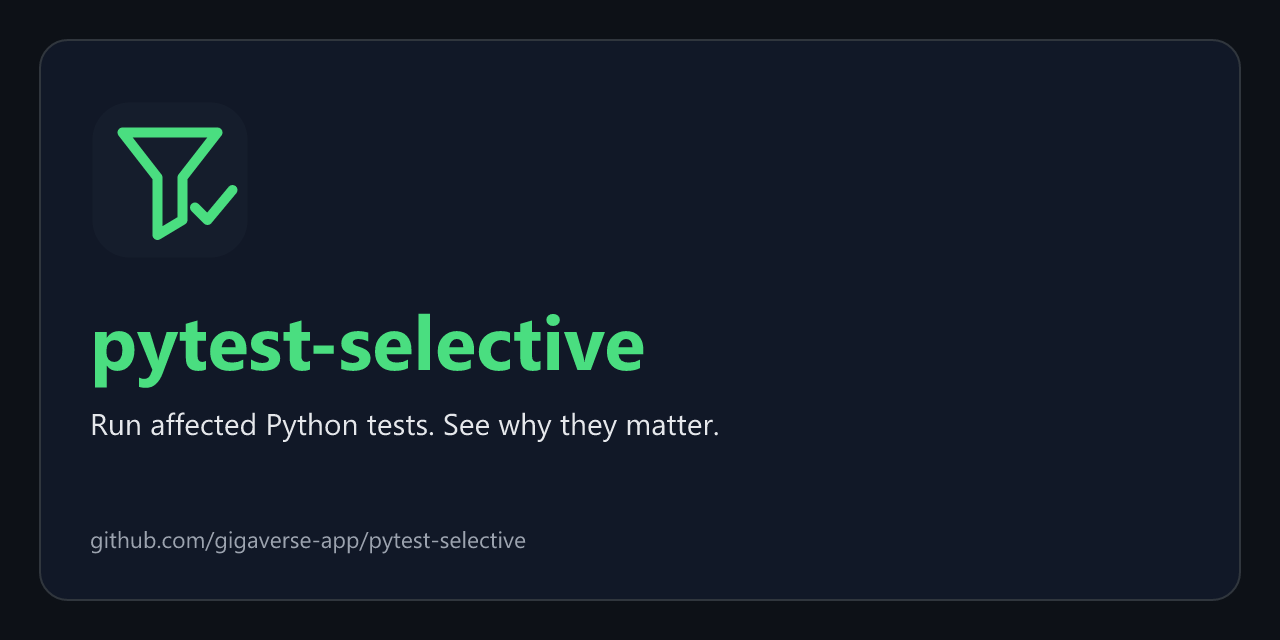
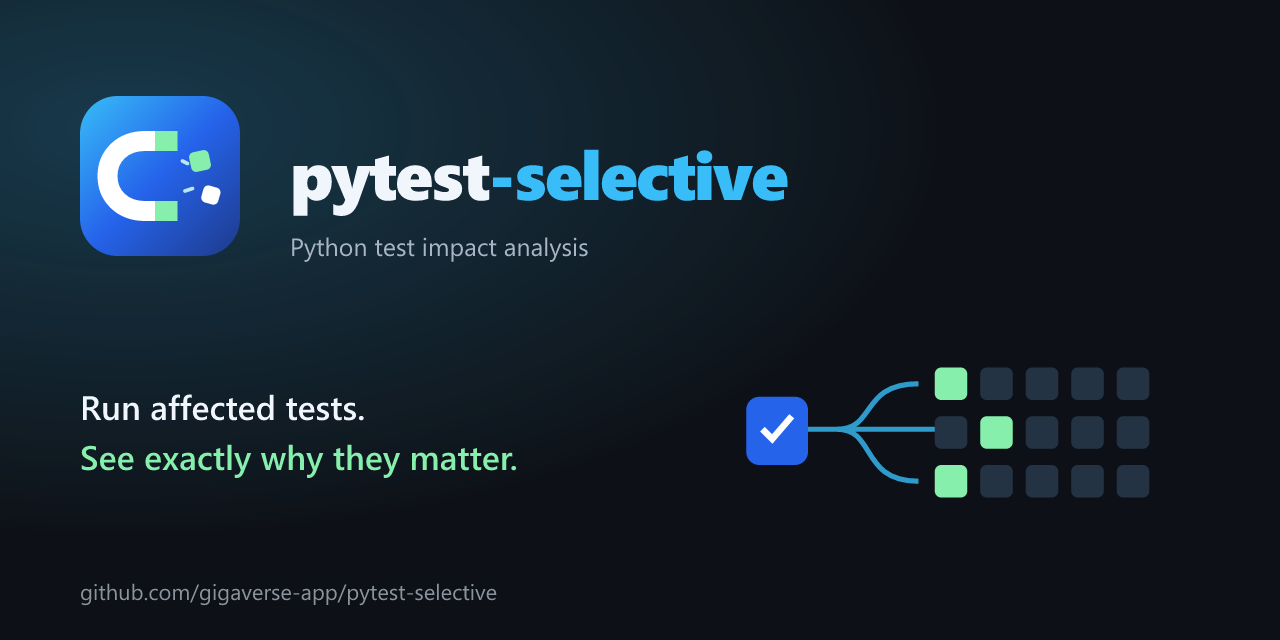
docs(branding): give selective a test-magnet identity
## TLDR

The generic funnel banner makes selective hard to distinguish. Give it a
blue test magnet and a diagram of affected tests, with matching README,
documentation, favicon and social-card artwork.

## Summary

`docs/assets/logo.svg` and `brand.json` define the test-magnet identity.
The renderer derives the banner, icon and social card; the README
receives the PNG content hash.

```text
BEFORE
canonical mark -> generic banner/card -> README and docs
                                       fixed README image URL
AFTER
canonical mark -> project-specific banner/card -> README and docs
                                                content-hashed README URL
```

| Metric | Before | After | Evidence and meaning |
| --- | --- | --- | --- |
| Banner export dimensions (pixels) | 1440 × 192 | 1440 × 128 | SVG/PNG
dimensions; more compact layout, not a performance claim |
| Independent canonical marks | 1 | 1 | Rendered assets still derive
from one logo; fewer is easier to maintain |

## Validation

- `python scripts/render_brand.py --check`: passed, including generated
SVGs, raster hashes and README image version.
- Strict MkDocs build and `documentation/check_site.py`: passed for 21
pages, including canonical URLs, descriptions, social metadata, sitemap
and search.
- Built wheel and sdist; checked both descriptions contain the absolute
banner URL; strict Twine passed.
- Visually inspected the rendered banner, icon and social card.
[…]

diff --git a/scripts/render_brand.py b/scripts/render_brand.py
@@ -17,48 +17,61 @@ def digest(path):
     return sha256(content).hexdigest()
 
 
+def motif() -> str:
+    cells = []
+    for row in range(3):
+        for column in range(5):
+            chosen = (row, column) in {(0, 0), (1, 1), (2, 0)}
+            fill = "#86EFAC" if chosen else "#243344"
+            cells.append(
+                f'<rect x="{63 + column * 14}" y="{10 + row * 15}" width="10" height="10" rx="2" fill="{fill}"/>'
+            )
+    return """<g fill="none" stroke="#38BDF8" stroke-width="1.6" opacity="0.8">
+<path d="M20 29h13c12 0 7-14 25-14M33 29h39M33 29c12 0 7 16 25 16"/>
+</g><rect x="5" y="19" width="19" height="21" rx="4" fill="#2563EB"/>
+<path d="m10 29 3 3 6-7" fill="none" stroke="#FFFFFF" stroke-width="2"/>""" + "".join(cells)
+
+
 def render():
     brand = json.loads((ASSETS / "brand.json").read_text(encoding="utf-8"))
     logo = (ASSETS / "logo.svg").read_text(encoding="utf-8")
-    # Nested SVG preserves the original viewBox, including the 256px plugin mark.
-    mark = re.sub(r'\s(?:width|height)="[^"]*"', "", logo, count=2) if "width=" in logo.split(">", 1)[0] else logo
-    mark = mark.replace("<svg ", '<svg x="0" y="0" width="64" height="64" ', 1)
-    name, tagline, color = (escape(brand[k], quote=True) for k in ("name", "tagline", "color"))
-    result = {}
-    for theme, bg, ink, muted, edge in (
-        ("dark", "#0D1117", "#F0F6FC", "#B6C2CF", "#30363D"),
-        ("light", "#FFFFFF", "#1F2328", "#59636E", "#D1D9E0"),
-    ):
-        banner = f'''<svg xmlns="http://www.w3.org/2000/svg" width="720" height="96" viewBox="0 0 720 96" role="img" aria-label="{name}: {tagline}">
+    name, tagline, color, accent = (escape(brand[k], quote=True) for k in ("name", "tagline", "color", "accent"))
+    first, second = (escape(line) for line in brand["banner_lines"])
+    repository = brand["repository"]
+    width, text_x, motif_x = (720, 289, 568)
+    wordmark = f'pytest<tspan fill="{color}">-selective</tspan>'
+    defs = f"""<defs><linearGradient id="brand-glow" x1="0" y1="0" x2="1" y2="0">
+<stop stop-color="{color}" stop-opacity="0.21"/><stop offset="0.55" stop-color="{color}" stop-opacity="0"/>
+</linearGradient><radialGradient id="brand-aura" cx="0.1" cy="0.2" r="0.85">
+<stop stop-color="{color}" stop-opacity="0.23"/><stop offset="0.75" stop-color="{color}" stop-opacity="0"/>
+</radialGradient></defs>"""
+    banner = f'''<svg xmlns="http://www.w3.org/2000/svg" width="{width}" height="64" viewBox="0 0 {width} 64" role="img" aria-label="{name}: {tagline}">
 <title>{name}: {tagline}</title>
-<rect x="1" y="1" width="718" height="94" rx="14" fill="{bg}" stroke="{edge}"/>
-<g transform="translate(16 16)">{mark}</g>
-<text x="98" y="43" font-family="{FONT}" font-size="29" font-weight="700" fill="{ink}">{name}</text>
-<text x="98" y="69" font-family="{FONT}" font-size="15" fill="{muted}">{tagline}</text>
-<path d="M613 48h72" stroke="{edge}" stroke-width="2"/>
-<g fill="{bg}" stroke="{color}" stroke-width="2"><circle cx="613" cy="48" r="11"/><circle cx="649" cy="48" r="11"/><circle cx="685" cy="48" r="11"/></g>
-<path d="m608 48 4 4 7-8" fill="none" stroke="{color}" stroke-width="2"/>
+{defs}
+<rect x="0.5" y="0.5" width="{width - 1}" height="63" rx="10" fill="#0D1117" stroke="#30363D"/>
+<rect x="0.5" y="0.5" width="{width - 1}" height="63" rx="10" fill="url(#brand-glow)"/>
+<g transform="translate(10 12) scale(0.625)">{logo}</g>
+<text x="62" y="41" font-family="{FONT}" font-size="27" font-weight="800" letter-spacing="-0.5" fill="#F0F6FC">{wordmark}</text>
+<text x="{text_x}" y="27" font-family="{FONT}" font-size="12" font-weight="600" fill="#C9D1D9">{first}</text>
+<text x="{text_x}" y="45" font-family="{FONT}" font-size="12" fill="#9CA8B7">{second}</text>
+<g transform="translate({motif_x} 1)">{motif()}</g>
 </svg>
 '''
-        if theme == "dark":
-            result["docs/assets/banner.svg"] = banner
-        if brand["sticky"]:
-            result[f"docs/assets/sticky-banner-{theme}.svg"] = banner
-    result[
-        "docs/assets/social-preview.svg"
-    ] = f'''<svg xmlns="http://www.w3.org/2000/svg" width="1280" height="640" viewBox="0 0 1280 640" role="img" aria-label="{name}: {tagline}">
+    social = f'''<svg xmlns="http://www.w3.org/2000/svg" width="1280" height="640" viewBox="0 0 1280 640" role="img" aria-label="{name}: {tagline}">
 <title>{name}: {tagline}</title>
+{defs}
 <rect width="1280" height="640" fill="#0D1117"/>
-<rect x="40" y="40" width="1200" height="560" rx="28" fill="#111827" stroke="#30363D" stroke-width="2"/>
-<g transform="translate(90 100) scale(2.5)">{mark}</g>
-<text x="90" y="370" font-family="{FONT}" font-size="76" font-weight="700" fill="{color}">{name}</text>
-<text x="90" y="435" font-family="{FONT}" font-size="30" fill="#E5E7EB">{tagline}</text>
-<text x="90" y="548" font-family="{FONT}" font-size="23" fill="#9CA3AF">github.com/gigaverse-app/{brand["repository"]}</text>
+<rect width="1280" height="640" fill="url(#brand-aura)"/>
+<g transform="translate(80 96) scale(2.5)">{logo}</g>
+<text x="290" y="200" font-family="{FONT}" font-size="68" font-weight="800" letter-spacing="-2" fill="#F0F6FC">{wordmark}</text>
+<text x="290" y="256" font-family="{FONT}" font-size="25" fill="#A9B5C4">Python test impact analysis</text>
+<text x="80" y="420" font-family="{FONT}" font-size="34" font-weight="600" fill="#F0F6FC">{first}</text>
+<text x="80" y="470" font-family="{FONT}" font-size="34" font-weight="600" fill="{accent}">{second}</text>
+<g transform="translate(730 335) scale(3.25)">{motif()}</g>
+<text x="80" y="600" font-family="{FONT}" font-size="22" fill="#8B949E">github.com/gigaverse-app/{repository}</text>
 </svg>
 '''
-    for alias in brand["logo_aliases"]:
-        result[alias] = logo
-    return result
+    return {"docs/assets/banner.svg": banner, "docs/assets/social-preview.svg": social}
 
 
 def main():
@@ -77,11 +90,12 @@ def main():
     if stale:
         parser.exit(1, "Regenerate branding: " + ", ".join(stale) + "\n")
     if args.png:
+        # Optional export tool, installed by the documented uv --with command.
         import resvg_py
 
         for source, target, width, height in (
             ("logo.svg", "icon.png", 256, 256),
-            ("banner.svg", "banner.png", 1440, 192),
+            ("banner.svg", "banner.png", 1440, 128),
             ("social-preview.svg", "social-preview.png", 1280, 640),
         ):
             (ASSETS / target).write_bytes(
@@ -103,6 +117,22 @@ def main():
         for name, expected in hashes.items():
             if digest(ASSETS / name) != expected:
                 parser.exit(1, "Regenerate PNG exports with --png: " + name + "\n")
+    # README images need the same cache refresh as documentation image URLs.
+    brand = json.loads((ASSETS / "brand.json").read_text(encoding="utf-8"))
+    image_url = f"https://raw.githubusercontent.com/gigaverse-app/{brand['repository']}/main/docs/assets/banner.png"
+    versioned_url = image_url + "?v=" + digest(ASSETS / "banner.png")[:12]
+    for readme in (ROOT / "README.md", ROOT / "package/README.md"):
+        if not readme.exists():
+            continue
+        text = readme.read_text(encoding="utf-8")
+        if args.png:
+            readme.write_text(
+                re.sub(re.escape(image_url) + r"(?:\?v=[0-9a-f]+)?", versioned_url, text),
+                encoding="utf-8",
+                newline="\n",
+            )
+        elif args.check and versioned_url not in text:
+            parser.exit(1, "Refresh the README banner with --png: " + str(readme) + "\n")
     print("Brand assets verified" if args.check else "Brand assets rendered")
 
 

diff --git a/documentation/publishing.md b/documentation/publishing.md
@@ -100,3 +100,8 @@ GitHub repositories use their owner's avatar; there is no independent repository
 avatar to set. The social card supplies the project's identity when sharing links.
 See [GitHub's social preview instructions](https://docs.github.com/en/repositories/managing-your-repositorys-settings-and-features/customizing-your-repository/customizing-your-repositorys-social-media-preview)
 and [PyPI project metadata](https://docs.pypi.org/project_metadata/).
+
+The renderer also updates the README banner URL with the PNG content hash, so
+GitHub and package-index image caches pick up an artwork change. Keep the banner
+layout specific to the project when editing `scripts/render_brand.py`; canonical
+assets do not require a shared visual template.

diff --git a/README.md b/README.md
@@ -1,4 +1,4 @@
-![pytest-selective: Run affected Python tests. See why they matter.](https://raw.githubusercontent.com/gigaverse-app/pytest-selective/main/docs/assets/banner.png)
+![pytest-selective: Run affected Python tests. See why they matter.](https://raw.githubusercontent.com/gigaverse-app/pytest-selective/main/docs/assets/banner.png?v=17de2a0b7412)
 
 # pytest-selective
 
